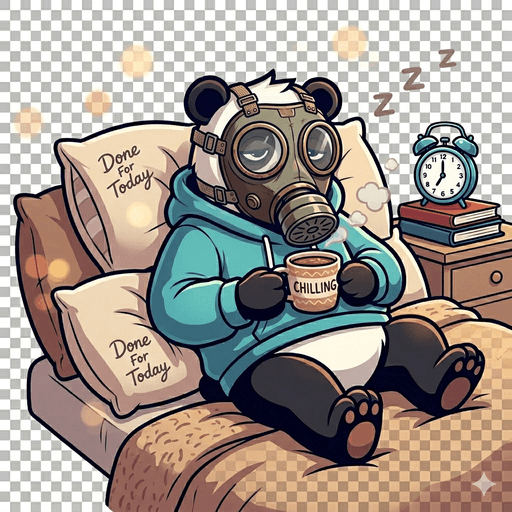
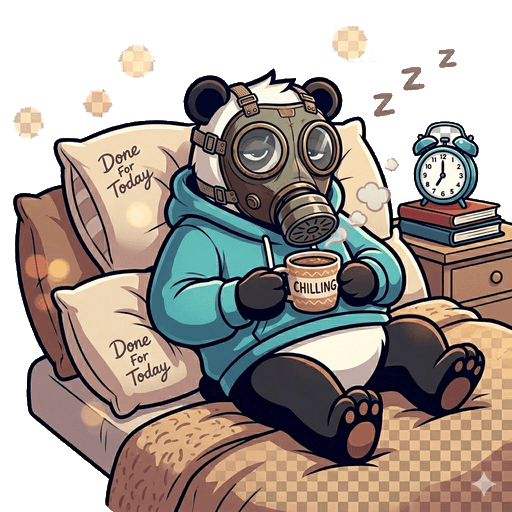
Strip baked-in checkerboard from mascot PNGs to restore transparency
The uploaded PNGs were RGB-only (hasAlpha: false) with the
transparency-indicator checkerboard rendered as real pixels. The
generator tool had baked the checker pattern into the image instead of
producing a true alpha channel.

Algorithm (one-shot, no longer in repo):
  1. Per-pixel: mark every near-white or near-light-grey pixel as
     candidate transparent (tolerance widened to ±35 in brightness and
     ±22 between channels to catch tinted variants like 190,190,180).
  2. Connected-components on the candidate mask. Only components that
     touch the canvas border AND are > 500 px stay transparent.
  3. Every small enclosed component (the panda's own white fur islands
     inside its black outlines) gets restored to opaque.
  4. Anti-alias the boundary so the edges aren't jagged.

Then regenerated all PWA icons (192/512/180/32 + 192/512 maskable on
dark BG) from the now-properly-transparent master.

Changed region(s): [[0.0, 0.0, 1.0, 1.0]]

diff --git a/keyout.js b/keyout.js
@@ -1,0 +1,137 @@
+// Removes the checkerboard "transparency indicator" that was baked into the
+// generated PNGs. The checkerboard is a regular pattern of near-white
+// (~255,255,255) and light-grey (~200,200,200) squares. We flood-fill from
+// every edge pixel: any pixel that matches one of those two colors (within
+// tolerance) AND is reachable from the edge without crossing the subject's
+// outline gets its alpha set to 0.
+
+const sharp = require("sharp");
+const fs = require("fs");
+
+const TOL = 18; // per-channel color tolerance
+const BG_COLORS = [
+  [255, 255, 255], // white squares
+  [200, 200, 200], // light-grey squares
+];
+
+function isBg(r, g, b) {
+  // checkerboard colors are near-greys, so require R≈G≈B
+  if (Math.abs(r - g) > 6 || Math.abs(g - b) > 6 || Math.abs(r - b) > 6) {
+    return false;
+  }
+  for (const [br, bg, bb] of BG_COLORS) {
+    if (
+      Math.abs(r - br) <= TOL &&
+      Math.abs(g - bg) <= TOL &&
+      Math.abs(b - bb) <= TOL
+    ) {
+      return true;
+    }
+  }
+  return false;
+}
+
+async function removeBackground(src, dst) {
+  const { data, info } = await sharp(src)
+    .ensureAlpha()
+    .raw()
+    .toBuffer({ resolveWithObject: true });
+  const w = info.width;
+  const h = info.height;
+  const rgba = Buffer.from(data); // copy so we can mutate alpha
+  const visited = new Uint8Array(w * h);
+
+  // BFS flood fill from every edge pixel that matches BG.
+  const queue = [];
+  const enqueue = (x, y) => {
+    if (x < 0 || y < 0 || x >= w || y >= h) return;
+    const i = y * w + x;
+    if (visited[i]) return;
+    const o = i * 4;
+    if (!isBg(rgba[o], rgba[o + 1], rgba[o + 2])) return;
+    visited[i] = 1;
+    queue.push(x, y);
+    rgba[o + 3] = 0; // make transparent
+  };
+
+  for (let x = 0; x < w; x++) {
+    enqueue(x, 0);
+    enqueue(x, h - 1);
+  }
+  for (let y = 0; y < h; y++) {
+    enqueue(0, y);
+    enqueue(w - 1, y);
+  }
+
+  while (queue.length) {
+    const y = queue.pop();
+    const x = queue.pop();
+    enqueue(x + 1, y);
+    enqueue(x - 1, y);
+    enqueue(x, y + 1);
+    enqueue(x, y - 1);
+  }
+
+  // Anti-aliasing pass: pixels adjacent to the now-transparent region that
+  // are "close-ish" to the BG palette get partial alpha so the edges don't
+  // look jagged.
+  const out = Buffer.from(rgba);
+  for (let y = 1; y < h - 1; y++) {
+    for (let x = 1; x < w - 1; x++) {
+      const i = y * w + x;
+      const o = i * 4;
+      if (rgba[o + 3] === 0) continue; // already transparent
+
+      const neighbors = [
+        rgba[((y - 1) * w + x) * 4 + 3],
+        rgba[((y + 1) * w + x) * 4 + 3],
+        rgba[(y * w + x - 1) * 4 + 3],
+        rgba[(y * w + x + 1) * 4 + 3],
+      ];
+      const transNeighbors = neighbors.filter((v) => v === 0).length;
+      if (transNeighbors === 0) continue;
+
+      const r = rgba[o],
+        g = rgba[o + 1],
+        b = rgba[o + 2];
+      // distance to nearest BG color
+      let minDist = Infinity;
+      for (const [br, bg, bb] of BG_COLORS) {
+        const d = Math.abs(r - br) + Math.abs(g - bg) + Math.abs(b - bb);
+        if (d < minDist) minDist = d;
+      }
+      // soft falloff: very close to BG = mostly transparent
+      if (minDist < 60) {
+        const factor = minDist / 60; // 0..1
+        const reduction = 1 - (1 - factor) * (transNeighbors / 4);
+        out[o + 3] = Math.max(0, Math.min(255, Math.round(255 * reduction)));
+      }
+    }
+  }
+
+  await sharp(out, { raw: { width: w, height: h, channels: 4 } })
+    .png({ compressionLevel: 9 })
+    .toFile(dst);
+
+  const stats = fs.statSync(dst);
+  const transparentPixels = (() => {
+    let c = 0;
+    for (let i = 3; i < out.length; i += 4) if (out[i] === 0) c++;
+    return c;
+  })();
+  console.log(
+    `${dst}: ${(stats.size / 1024).toFixed(0)}KB, ${transparentPixels} transparent px (${((transparentPixels / (w * h)) * 100).toFixed(1)}%)`,
+  );
+}
+
+(async () => {
+  const files = ["mascot.png", "mascot-celebrating.png", "mascot-tired.png"];
+  // Work from the high-res masters if we still have them. Otherwise from
+  // the 512s already in /public.
+  for (const f of files) {
+    const src = "public/" + f;
+    const tmpDst = "public/_" + f;
+    await removeBackground(src, tmpDst);
+    fs.renameSync(tmpDst, src);
+  }
+})();
